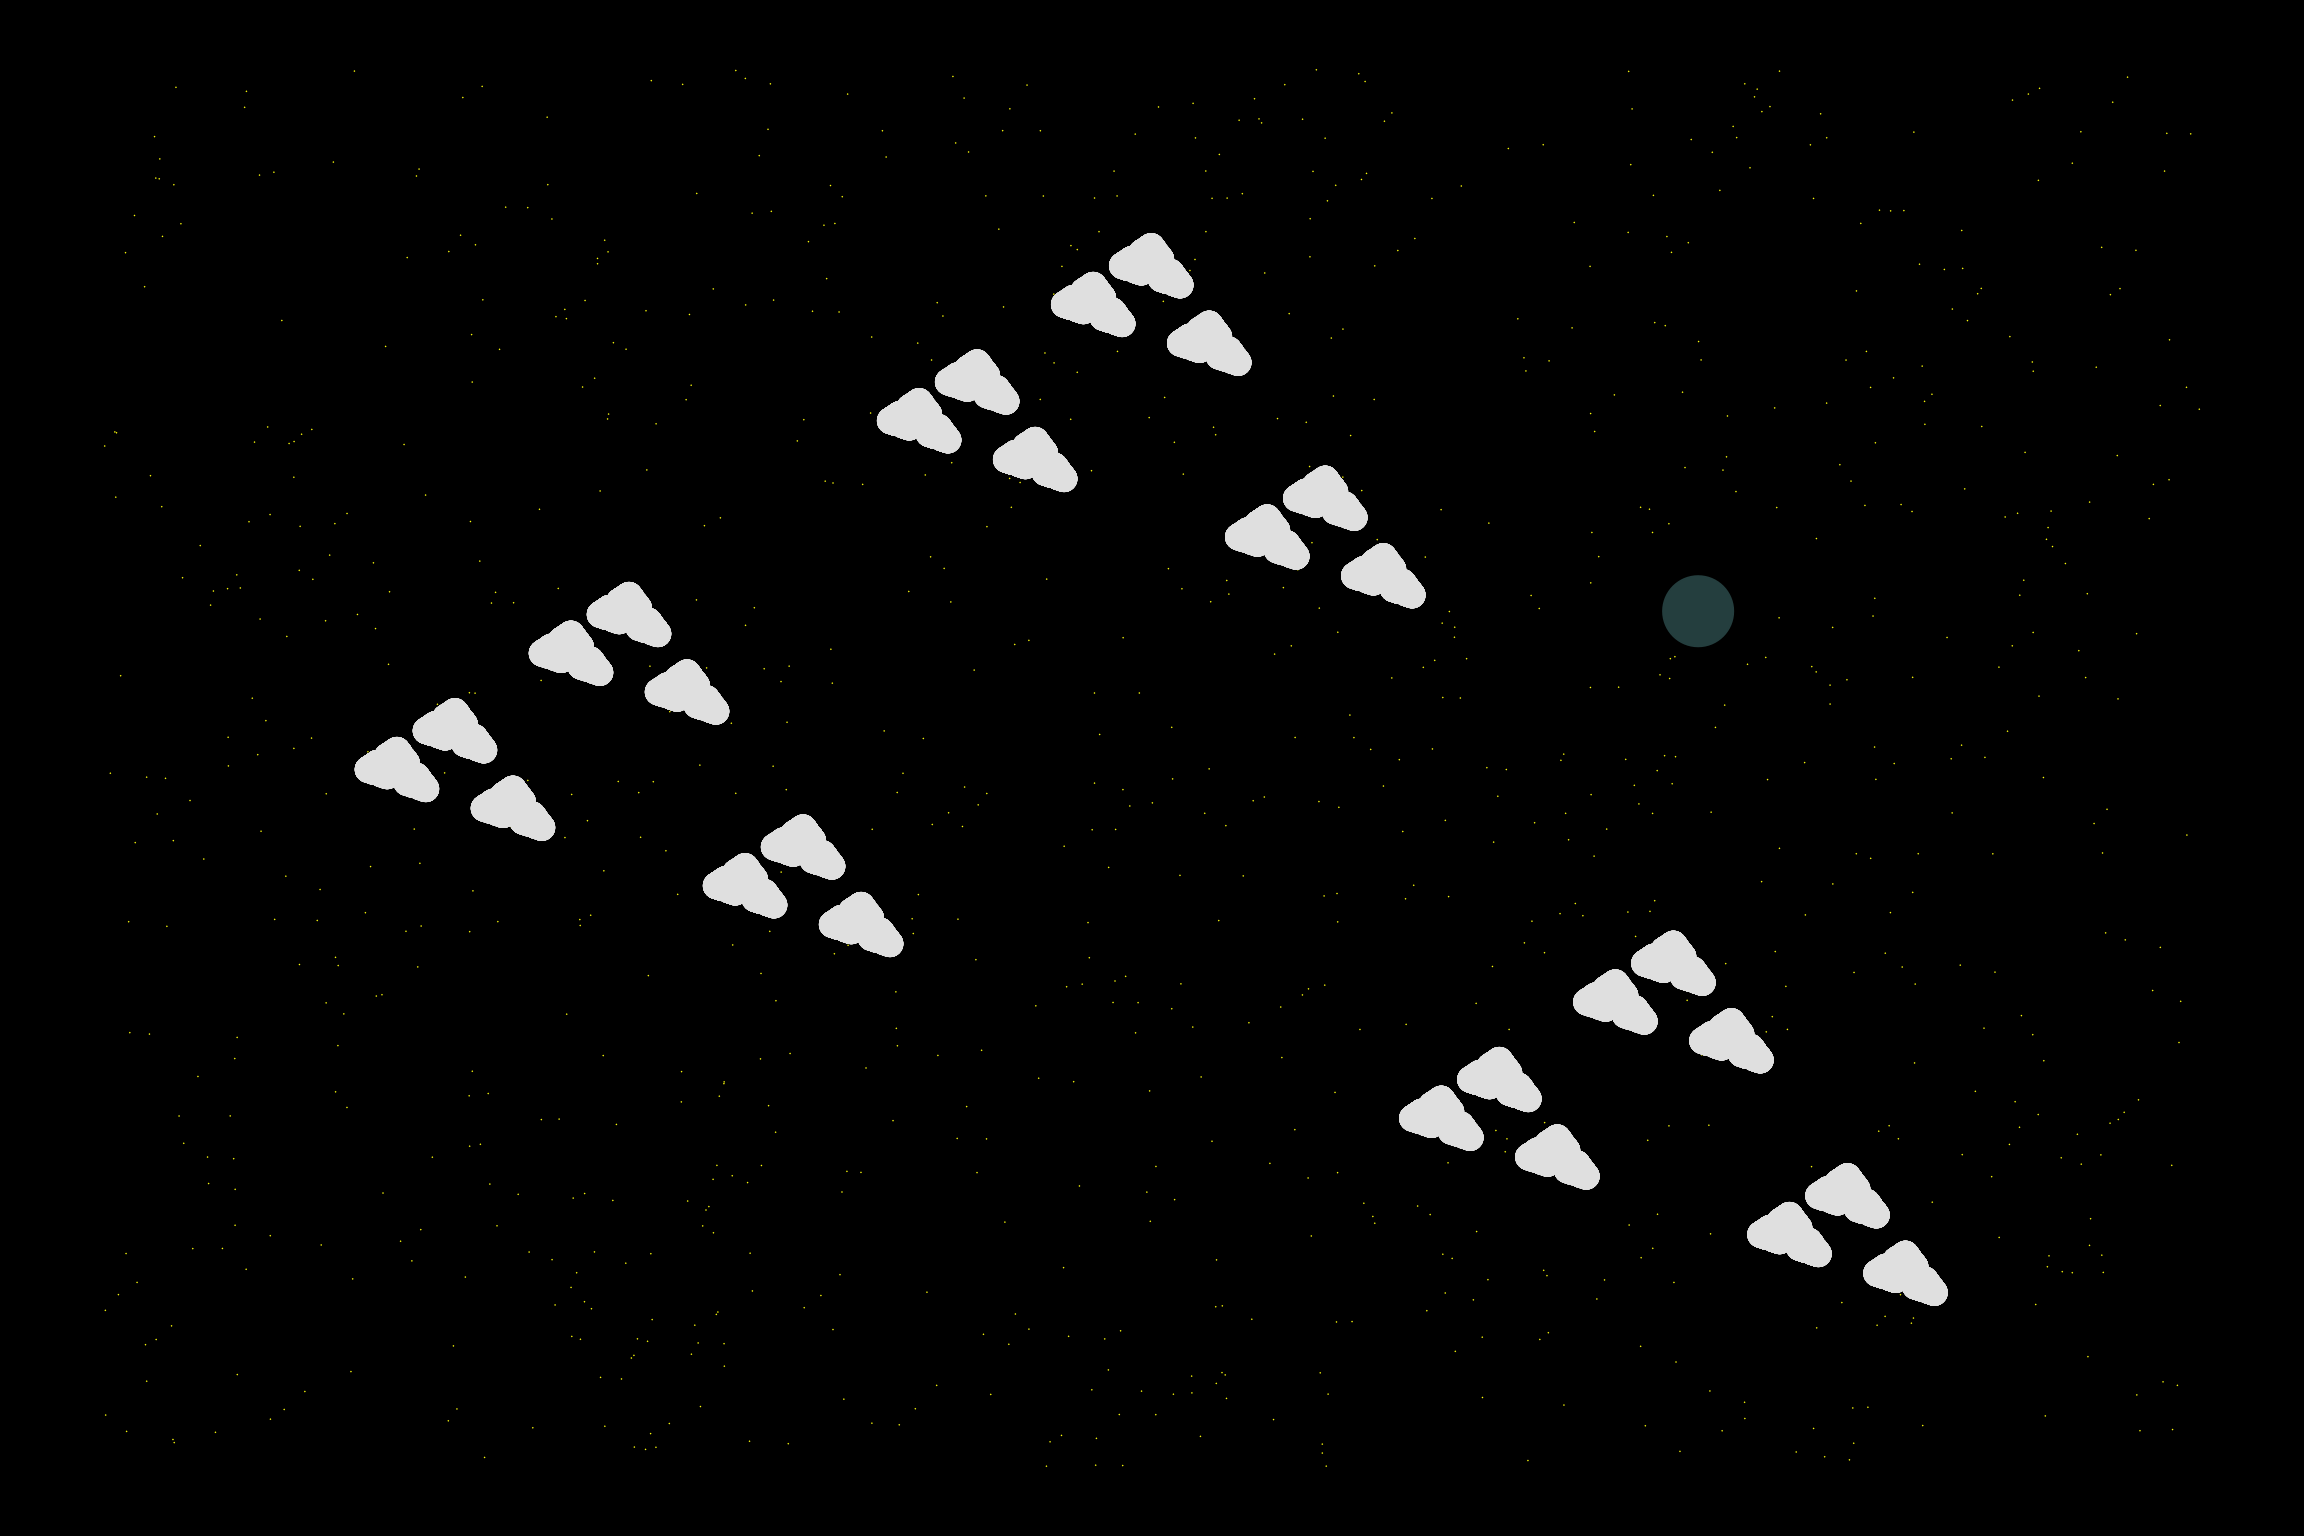
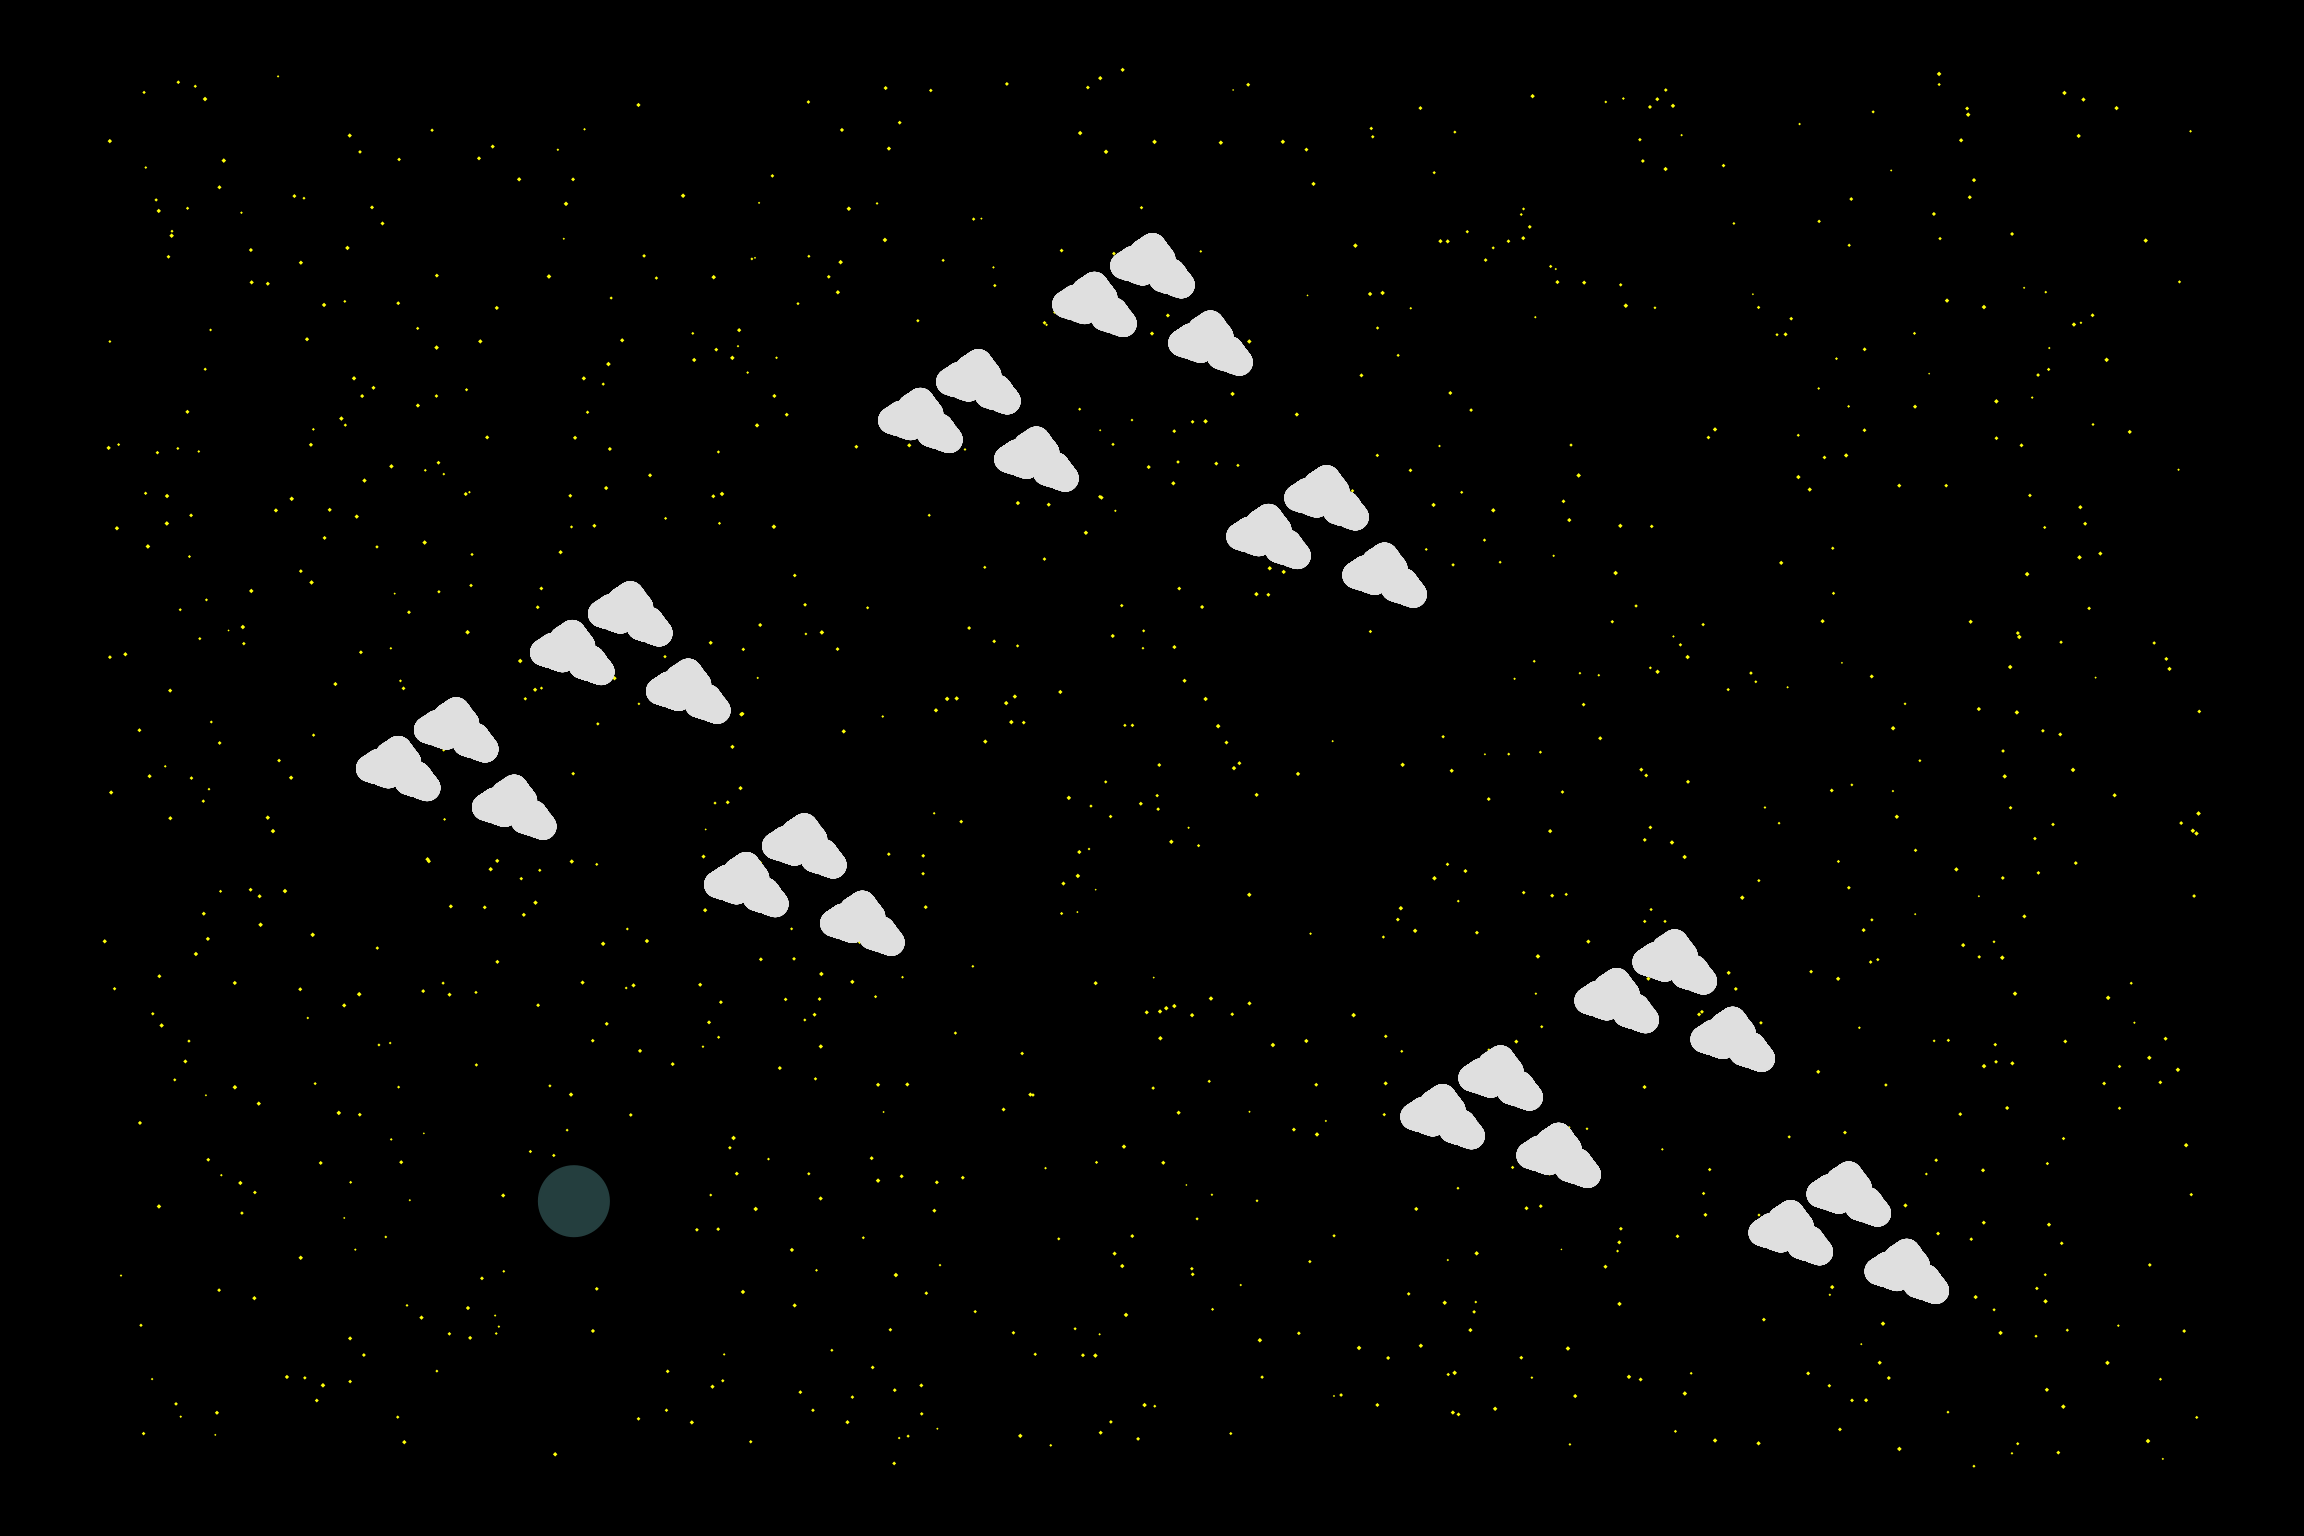
update star destroyers post

Changed region(s): [[0.2188, 0.75, 0.2812, 0.8125], [0.7188, 0.375, 0.75, 0.4375]]

diff --git a/content/blog/2020-plotting-star-destroyers-in-R.html b/content/blog/2020-plotting-star-destroyers-in-R.html
@@ -242,17 +242,22 @@ map_dbl(example_vector, BTE)</code></pre>
 <pre><code>## [1] 59049</code></pre>
 <p>There is a range of values where the input of the balanced ternary enumeration is equal to the outcome (or where the outcome is equal to the input divided by two times -1 (<span class="math inline">\(\frac{-x}{2}\)</span>). There’s a clear pattern to these numbers, but I’ve done enough maths for today, so I’ll save it for another time.</p>
 <p>Anyway, the plot! It is cool and all, but let’s make it look a bit more like Star Wars by changing some style elements. We’ll also generate some stars. For fun’s sake we’ll also add a planet or moon.</p>
-<pre class="r"><code>set.seed(1977)
+<pre class="r"><code>set.seed(1983)
 ggplot(data = NULL, aes(x = seq(starwars_seq), y = starwars_seq)) +
-  geom_point(aes(x = sample(seq(-1e4,length(starwars_seq)+1e4), 1e3),
-                 y = sample(seq(min(starwars_seq)-1e4,max(starwars_seq)+1e4), 1e3)), 
-            shape = 18, size = 1e-5, color = &quot;yellow&quot;) +
+  geom_point(aes(x = sample(seq(-1e4,length(starwars_seq) + 1e4), 1e3),
+                 y = sample(seq(min(starwars_seq)-1e4,max(starwars_seq) + 1e4), 1e3),
+                 size = sample(runif(length(starwars_seq) + 1e4), 1e3)), 
+             shape = 18, color = &quot;yellow&quot;) +
   geom_point(aes(x = sample(seq(starwars_seq), 1),
                  y = sample(starwars_seq, 1)), 
-            shape = 19, size = 12, color = &quot;darkslategray&quot;) +
+             shape = 19, size = 12, color = &quot;darkslategray&quot;) +
   geom_point(size = 4, color = &quot;grey90&quot;) +
+  scale_size_continuous(range = c(1e-3,5e-1)) +
   theme_void() +
-  theme(panel.background = element_rect(fill = &quot;black&quot;))</code></pre>
+  theme(
+    legend.position = &quot;none&quot;,
+    panel.background = element_rect(fill = &quot;black&quot;)
+  )</code></pre>
 <p><img src="/blog/2020-plotting-star-destroyers-in-R_files/figure-html/unnamed-chunk-18-1.png" width="1152" style="display: block; margin: auto;" /></p>
 <p>Hope you enjoyed reading about me rambling about maths and implementing these functions to R! I will certainly do another plot some time later!
 <br><br></p>

diff --git a/public/blog/plotting-star-destroyers-in-r/index.html b/public/blog/plotting-star-destroyers-in-r/index.html
@@ -326,17 +326,22 @@ map_dbl(example_vector, BTE)</code></pre>
 <pre><code>## [1] 59049</code></pre>
 <p>There is a range of values where the input of the balanced ternary enumeration is equal to the outcome (or where the outcome is equal to the input divided by two times -1 (<span class="math inline">\(\frac{-x}{2}\)</span>). There’s a clear pattern to these numbers, but I’ve done enough maths for today, so I’ll save it for another time.</p>
 <p>Anyway, the plot! It is cool and all, but let’s make it look a bit more like Star Wars by changing some style elements. We’ll also generate some stars. For fun’s sake we’ll also add a planet or moon.</p>
-<pre class="r"><code>set.seed(1977)
+<pre class="r"><code>set.seed(1983)
 ggplot(data = NULL, aes(x = seq(starwars_seq), y = starwars_seq)) +
-  geom_point(aes(x = sample(seq(-1e4,length(starwars_seq)+1e4), 1e3),
-                 y = sample(seq(min(starwars_seq)-1e4,max(starwars_seq)+1e4), 1e3)), 
-            shape = 18, size = 1e-5, color = &quot;yellow&quot;) +
+  geom_point(aes(x = sample(seq(-1e4,length(starwars_seq) + 1e4), 1e3),
+                 y = sample(seq(min(starwars_seq)-1e4,max(starwars_seq) + 1e4), 1e3),
+                 size = sample(runif(length(starwars_seq) + 1e4), 1e3)), 
+             shape = 18, color = &quot;yellow&quot;) +
   geom_point(aes(x = sample(seq(starwars_seq), 1),
                  y = sample(starwars_seq, 1)), 
-            shape = 19, size = 12, color = &quot;darkslategray&quot;) +
+             shape = 19, size = 12, color = &quot;darkslategray&quot;) +
   geom_point(size = 4, color = &quot;grey90&quot;) +
+  scale_size_continuous(range = c(1e-3,5e-1)) +
   theme_void() +
-  theme(panel.background = element_rect(fill = &quot;black&quot;))</code></pre>
+  theme(
+    legend.position = &quot;none&quot;,
+    panel.background = element_rect(fill = &quot;black&quot;)
+  )</code></pre>
 <p><img src="/blog/2020-plotting-star-destroyers-in-R_files/figure-html/unnamed-chunk-18-1.png" width="1152" style="display: block; margin: auto;" /></p>
 <p>Hope you enjoyed reading about me rambling about maths and implementing these functions to R! I will certainly do another plot some time later!
 <br><br></p>
